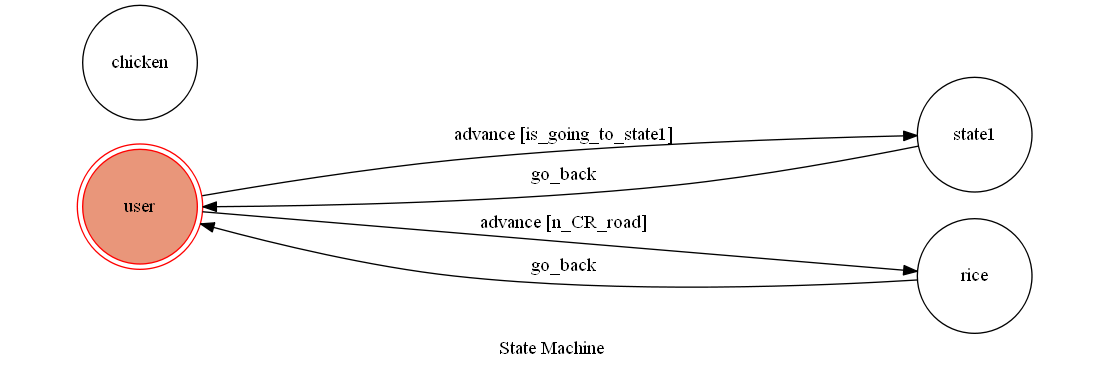
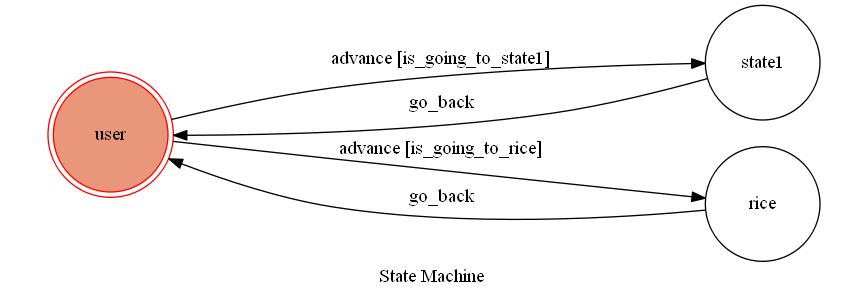
rice

diff --git a/fsm.py b/fsm.py
@@ -13,7 +13,7 @@ class TocMachine(GraphMachine):
 
     def is_going_to_rice(self, event):
         text = event.message.text
-        return (text.lower() == "y" )|(text.lower() == "n") 
+        return text.lower() == "y" 
 
     def on_enter_state1(self, event): #on_enter + state名稱
         print("I'm entering state1")
@@ -28,12 +28,9 @@ class TocMachine(GraphMachine):
     def on_enter_rice(self, event):
         print("I'm entering rice")
         reply_token = event.reply_token
-        if (reply_token == "y"):
-            send_text_message(reply_token, "施家火雞肉飯")
-            self.go_back()
-        elif (reply_token == "n"):
-            send_text_message(reply_token, "黑工號")
-            self.go_back()
+        send_text_message(reply_token, "施家火雞肉飯")
+        self.go_back()
+        
 
     def on_exit_rice(self):
         print("Leaving rice")
